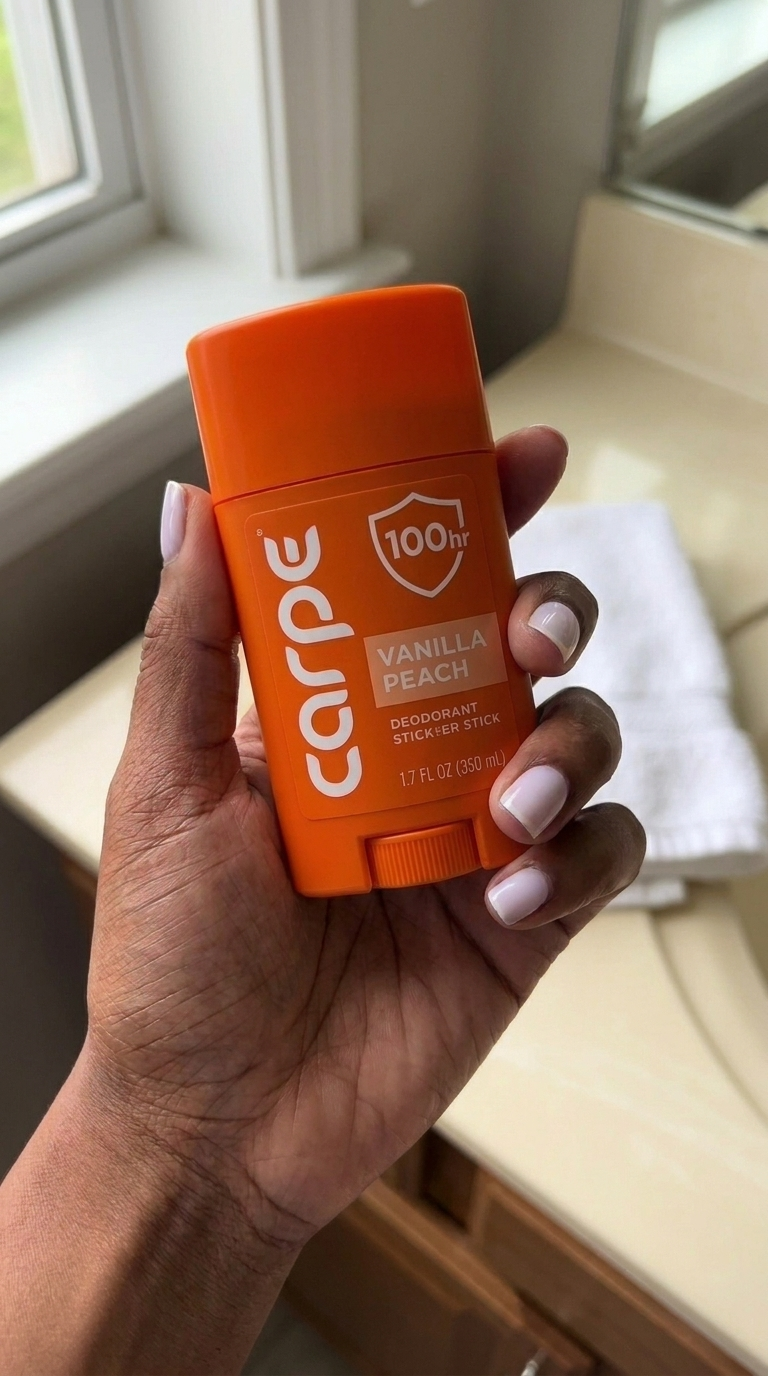
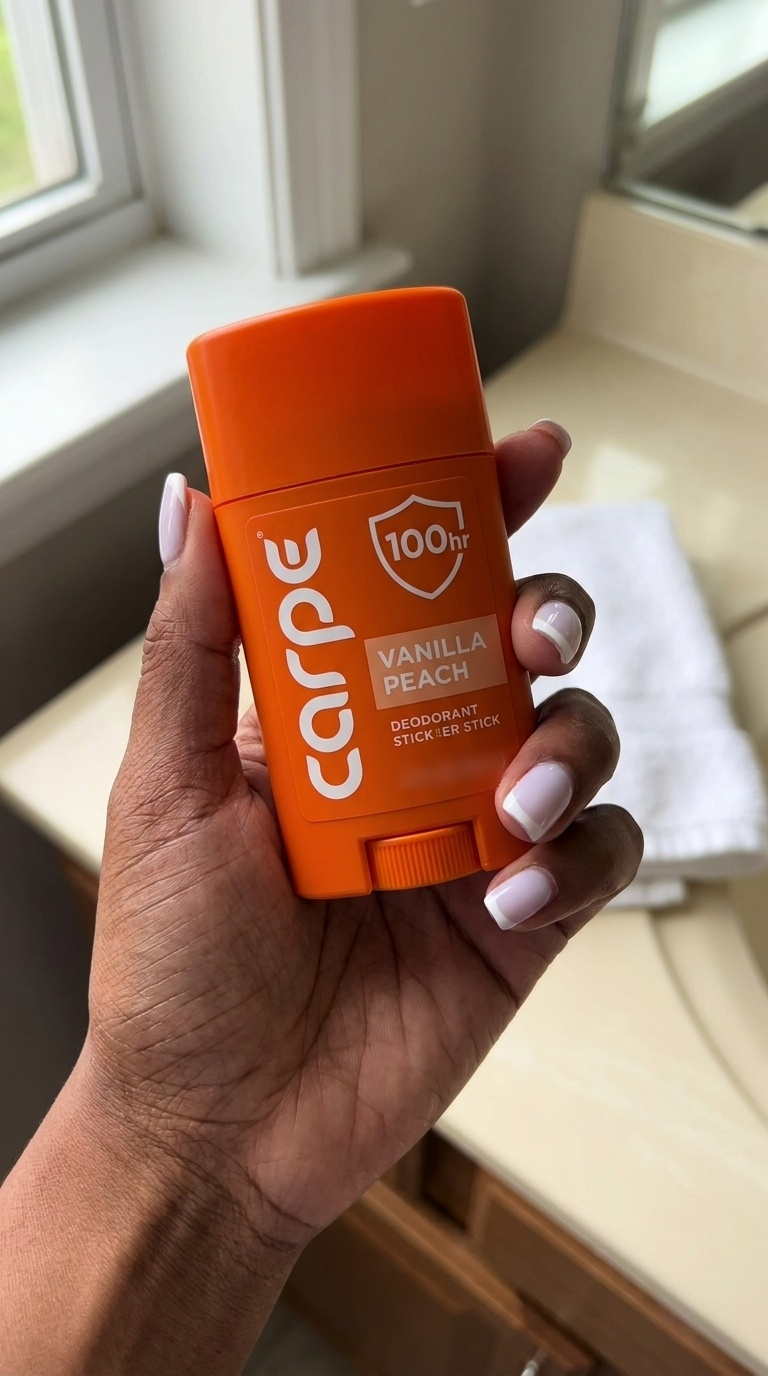
Carpe ad: back to the short-nail S1 Ralph liked, label size line blurred
Claude-Session: https://claude.ai/code/session_01CGzYzZzx9Zrr4HNrKdzh8N

diff --git a/ugc/carpe-vanilla-peach/README.md b/ugc/carpe-vanilla-peach/README.md
@@ -3,7 +3,7 @@
 One video, 9:16, **36s**. The only character is the hand in `refs/hand_sheet.jpg`. Voiceover:
 ElevenLabs **Grace B voice** (`bGrsdLmwBbYUgHRuMFOI`, eleven_v4) → `vo/voiceover.mp3`. Product look:
 `refs/product_sheet_v2.jpg` (Vanilla Peach panels only).
-Status: **preview 3 done with VERY SHORT nails (Ralph, 2026-10-01; `stills/S1.png`, an edit of `preview/S1_v2_short_nails.png`; long-nail first try in `preview/S1_v1_long_nails.png`); waiting for OK on stills S2–S9 ($0.72).**
+Status: **preview 3 approved by Ralph: still S1 with SHORT nails (`stills/S1.png` = `preview/S1_v2_short_nails.png` with the made-up "1.7 FL OZ (350 mL)" label line blurred, free). Waiting for OK on stills S2–S9 ($0.72). Ask before every paid generation, including redos.**
 
 ## Why this video (research 2026-10-01, free BMC Coach / Daily Virals workflow)
 
